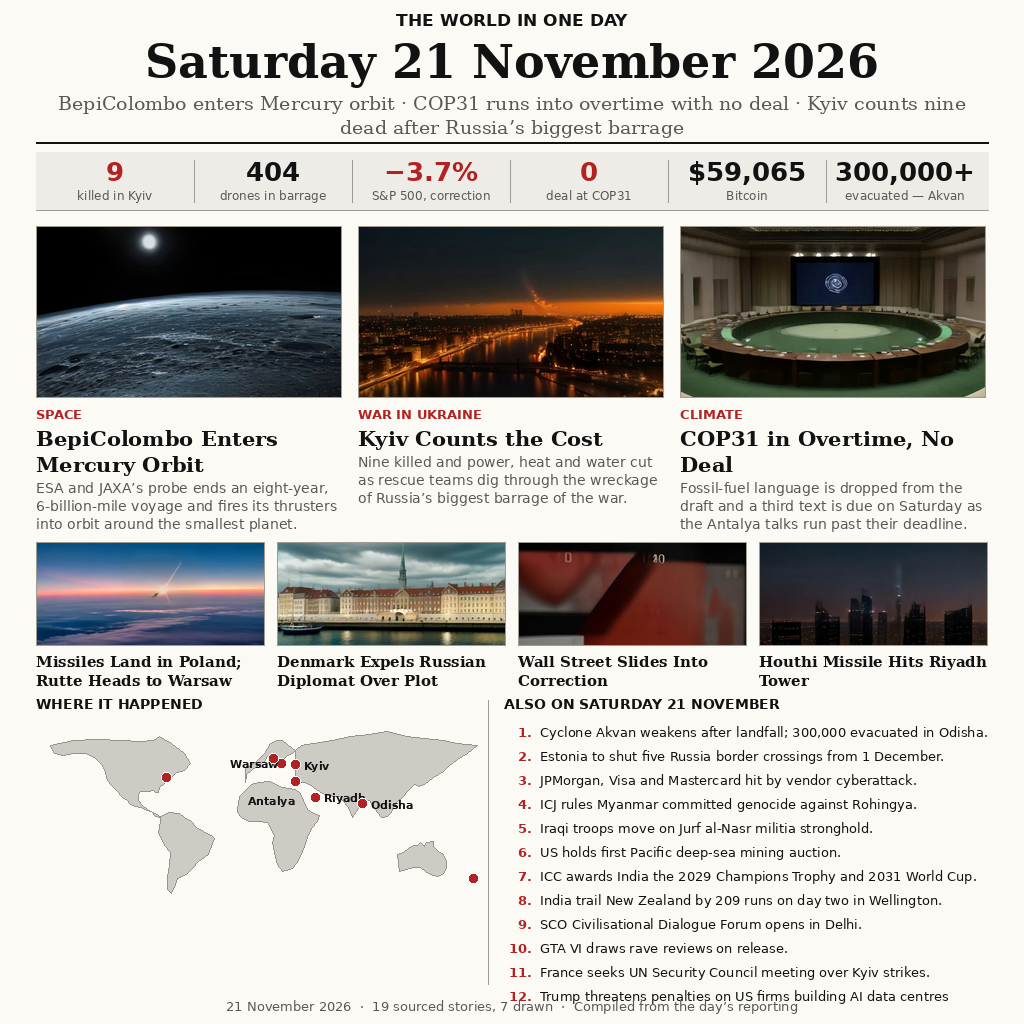
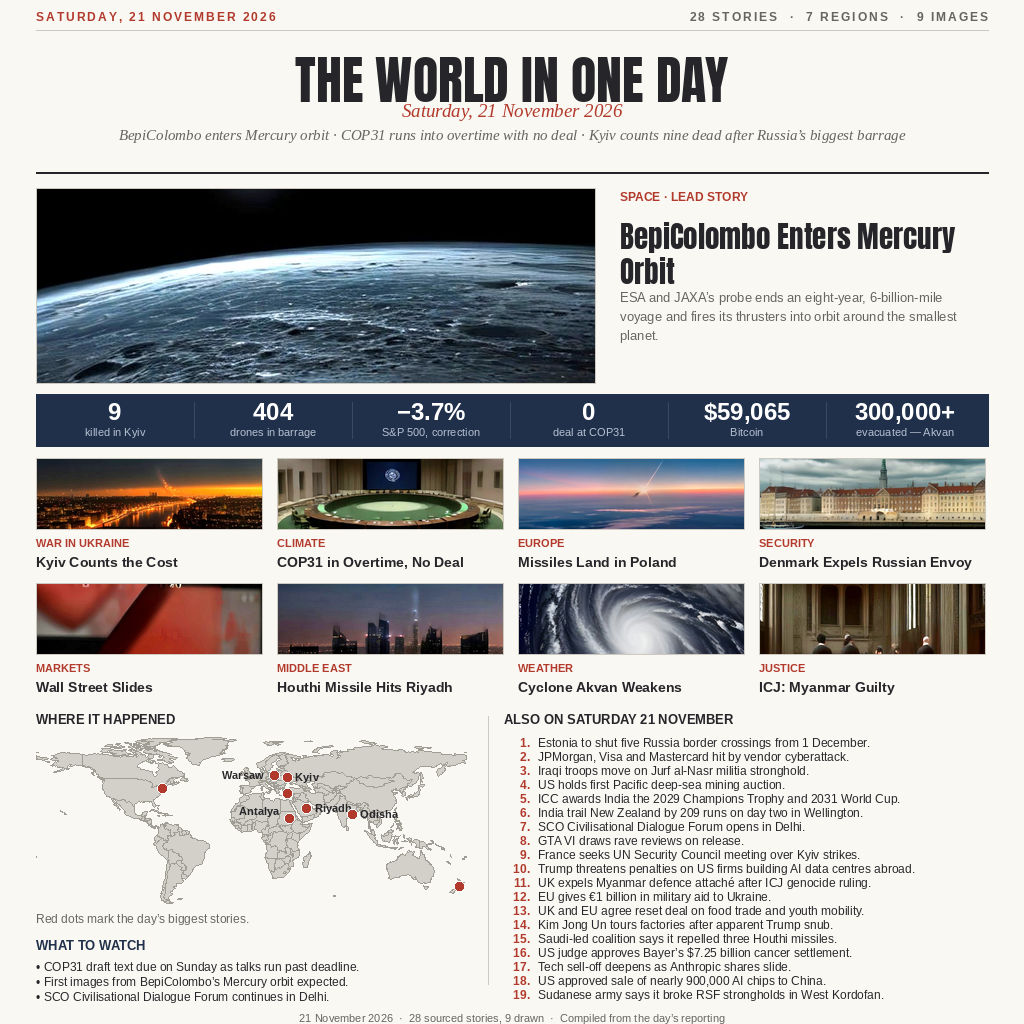
news-image-20261121 v2: magazine cover-story, 28 stories, 9 drawn, real Natural Earth map

diff --git a/main.ts b/main.ts
@@ -1,13 +1,19 @@
-// news-image-20261121 — entry program (v1, visual broadsheet).
+// news-image-20261121 — entry program (v2, magazine cover-story).
 //
-// The entry image (entry.png) is a visual broadsheet of the world news of
-// Saturday, 21 November 2026: 19 stories across regions and fields, 7 of
-// them illustrated, with a date headline, a key-numbers strip, three large
-// visual story blocks (BepiColombo entering Mercury orbit, Kyiv counting
-// the cost of Russia's biggest barrage, COP31 in overtime with no deal), a
-// world map and a numbered briefs list. Every story was date-checked
-// against live reporting before the image was drawn. The illustrations
-// were drawn for this entry (generated art, no borrowed photo or artwork).
+// The entry image (entry.png) is a magazine cover-story of the world news
+// of Saturday, 21 November 2026: 28 stories across regions and fields, 9
+// of them illustrated, with a date masthead in a bold condensed face, a
+// side-by-side hero (BepiColombo entering Mercury orbit), a navy
+// key-numbers strip, an eight-story illustrated grid (Kyiv counting the
+// cost of Russia's biggest barrage, COP31 in overtime with no deal, missiles
+// in Poland, Denmark expelling a Russian envoy, Wall Street sliding, a
+// Houthi missile hitting Riyadh, Cyclone Akvan weakening, the ICJ ruling
+// Myanmar guilty), a REAL world map (Natural Earth 110m, public domain)
+// marking where the day's biggest stories happened, a numbered briefs list
+// of 19 more stories, and a "what to watch" box. Every story was
+// date-checked against live reporting before the image was drawn. The
+// illustrations were drawn for this entry (generated art, no borrowed
+// photo or artwork).
 // This program only places a byte-for-byte copy of the finished image at
 // the output path the grader reads, after confirming the file is a real
 // PNG.
